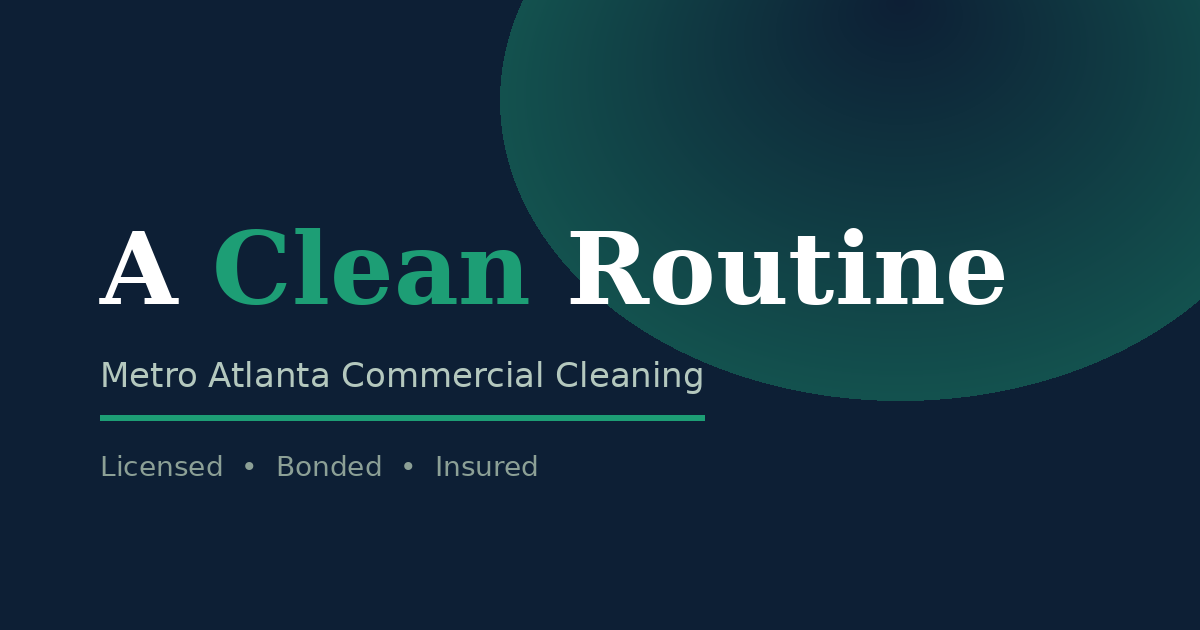
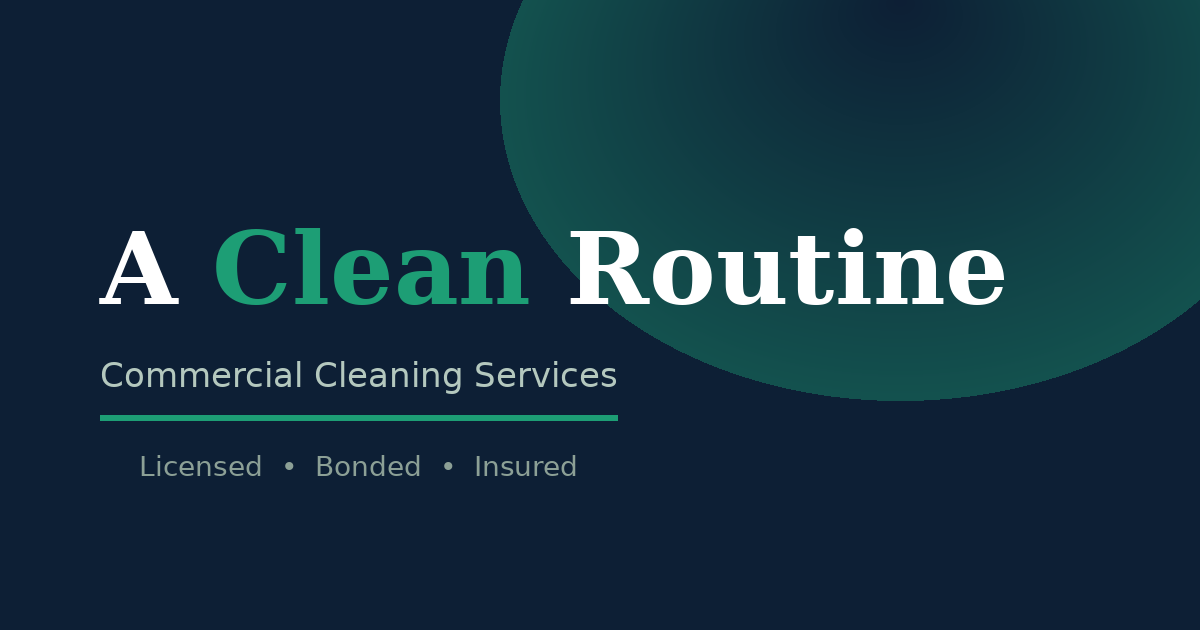
Add files via upload

Changed region(s): [[0.0617, 0.573, 0.5858, 0.6937], [0.0617, 0.7238, 0.4933, 0.754]]

diff --git a/about.html b/about.html
@@ -4,17 +4,17 @@
 <meta charset="UTF-8">
 <meta name="viewport" content="width=device-width, initial-scale=1.0">
 <title>About | A Clean Routine</title>
-<meta name="description" content="A Clean Routine serves Metro Atlanta businesses with accountable, reliable, and professionally documented commercial cleaning.">
+<meta name="description" content="A Clean Routine serves businesses with accountable, reliable, and professionally documented commercial cleaning.">
 <meta property="og:type" content="website">
 <meta property="og:url" content="https://acroutine.com/about.html">
 <meta property="og:title" content="About | A Clean Routine">
-<meta property="og:description" content="A Clean Routine serves Metro Atlanta businesses with accountable, reliable, and professionally documented commercial cleaning.">
+<meta property="og:description" content="A Clean Routine serves businesses with accountable, reliable, and professionally documented commercial cleaning.">
 <meta property="og:image" content="https://acroutine.com/og-image.png">
 <meta property="og:image:width" content="1200">
 <meta property="og:image:height" content="630">
 <meta name="twitter:card" content="summary_large_image">
 <meta name="twitter:title" content="About | A Clean Routine">
-<meta name="twitter:description" content="A Clean Routine serves Metro Atlanta businesses with accountable, reliable, and professionally documented commercial cleaning.">
+<meta name="twitter:description" content="A Clean Routine serves businesses with accountable, reliable, and professionally documented commercial cleaning.">
 <meta name="twitter:image" content="https://acroutine.com/og-image.png">
 <link href="https://fonts.googleapis.com/css2?family=DM+Serif+Display&family=DM+Sans:wght@300;400;500;600&display=swap" rel="stylesheet">
 <style>
@@ -129,8 +129,6 @@ footer{background:var(--navy);padding:48px 2rem 28px}
     <a class="nl active" href="about.html">About</a>
     <a class="nl" href="quote.html">Get a Quote</a>
     <a class="nl" href="contact.html">Contact</a>
-    <div class="nav-divider"></div>
-    <a class="nav-phone" href="tel:6788333847">&#9990; (678) 833-3847</a>
   </div>
   <button class="hamburger" onclick="toggleMenu()" aria-label="Menu">
     <span></span><span></span><span></span>
@@ -143,7 +141,6 @@ footer{background:var(--navy);padding:48px 2rem 28px}
   <a href="about.html">About</a>
   <a href="quote.html">Get a Quote</a>
   <a href="contact.html">Contact</a>
-  <a href="tel:6788333847" style="color:rgba(255,255,255,.8);">&#9990; (678) 833-3847</a>
 </div>
 
 <!-- PAGE HERO -->
@@ -167,11 +164,11 @@ footer{background:var(--navy);padding:48px 2rem 28px}
     </div>
     <div class="story-content">
       <div class="reveal"><div class="section-tag">Who We Are</div></div>
-      <div class="reveal reveal-d1"><h2>A Metro Atlanta Company Built for Metro Atlanta Businesses</h2></div>
+      <div class="reveal reveal-d1"><h2>A Company Built for Consistent Business Cleaning</h2></div>
       <div class="reveal reveal-d2">
-        <p>A Clean Routine is a Metro Atlanta commercial cleaning company built from the ground up with one priority: accountability. In an industry where the most common complaint is inconsistency, we built our entire model around solving that problem.</p>
+        <p>A Clean Routine is a commercial cleaning company built from the ground up with one priority: accountability. In an industry where the most common complaint is inconsistency, we built our entire model around solving that problem.</p>
         <p>Every cleaning professional we deploy is background-checked, insured, and trained to follow a documented cleaning checklist. Every job ends with photo documentation sent directly to you so you always know exactly what was done and when.</p>
-        <p>We serve office buildings, medical facilities, executive suites, retail spaces, auto dealerships, and property management portfolios across Metro Atlanta. Whether you need daily janitorial service or monthly deep cleaning, we build a schedule around your operations, not ours.</p>
+        <p>We serve office buildings, medical facilities, executive suites, retail spaces, auto dealerships, and property management portfolios. Whether you need daily janitorial service or monthly deep cleaning, we build a schedule around your operations, not ours.</p>
       </div>
     </div>
   </div>
@@ -208,7 +205,6 @@ footer{background:var(--navy);padding:48px 2rem 28px}
   <h2>Ready to Work With Us?</h2>
   <p>Get a free custom quote for your facility within 24 hours.</p>
   <a href="quote.html" class="btn-white">Request a Free Quote</a>
-  <a href="tel:6788333847" class="btn-outline-white">&#9990; Call (678) 833-3847</a>
 </div>
 
 <!-- FOOTER -->
@@ -231,6 +227,7 @@ footer{background:var(--navy);padding:48px 2rem 28px}
       <div style="font-size:11px;font-weight:600;color:rgba(255,255,255,.35);text-transform:uppercase;letter-spacing:.12em;margin-bottom:12px;">Contact</div>
       <div style="display:flex;flex-direction:row;flex-wrap:wrap;gap:6px 28px;">
         <a href="tel:6788333847" style="font-size:13px;color:rgba(255,255,255,.55);text-decoration:none;">(678) 833-3847</a>
+        <a href="tel:4633634653" style="font-size:13px;color:rgba(255,255,255,.55);text-decoration:none;">(463) 363-4653</a>
         <span style="font-size:13px;color:rgba(255,255,255,.55);" id="footer-email"></span>
         <span style="font-size:13px;color:rgba(255,255,255,.55);">Available Mon&#8211;Sat</span>
       </div>

diff --git a/index.html b/index.html
@@ -3,17 +3,17 @@
 <head>
 <meta charset="UTF-8">
 <meta name="viewport" content="width=device-width, initial-scale=1.0">
-<title>A Clean Routine | Metro Atlanta Commercial Cleaning</title>
+<title>A Clean Routine | Commercial Cleaning Services</title>
 <meta name="description" content="Licensed, bonded commercial cleaning for Metro Atlanta businesses. Photo documented, background checked, built on accountability.">
 <meta property="og:type" content="website">
 <meta property="og:url" content="https://acroutine.com">
-<meta property="og:title" content="A Clean Routine | Metro Atlanta Commercial Cleaning">
+<meta property="og:title" content="A Clean Routine | Commercial Cleaning Services">
 <meta property="og:description" content="Licensed, bonded commercial cleaning for Metro Atlanta businesses. Photo documented, background checked, built on accountability.">
 <meta property="og:image" content="https://acroutine.com/og-image.png">
 <meta property="og:image:width" content="1200">
 <meta property="og:image:height" content="630">
 <meta name="twitter:card" content="summary_large_image">
-<meta name="twitter:title" content="A Clean Routine | Metro Atlanta Commercial Cleaning">
+<meta name="twitter:title" content="A Clean Routine | Commercial Cleaning Services">
 <meta name="twitter:description" content="Licensed, bonded commercial cleaning for Metro Atlanta businesses. Photo documented, background checked, built on accountability.">
 <meta name="twitter:image" content="https://acroutine.com/og-image.png">
 <link href="https://fonts.googleapis.com/css2?family=DM+Serif+Display&family=DM+Sans:wght@300;400;500;600&display=swap" rel="stylesheet">
@@ -180,8 +180,6 @@ footer{background:var(--navy);padding:48px 2rem 28px}
     <a class="nl" href="about.html">About</a>
     <a class="nl" href="quote.html">Get a Quote</a>
     <a class="nl" href="contact.html">Contact</a>
-    <div class="nav-divider"></div>
-    <a class="nav-phone" href="tel:6788333847">&#9990; (678) 833-3847</a>
   </div>
   <button class="hamburger" onclick="toggleMenu()" aria-label="Menu">
     <span></span><span></span><span></span>
@@ -194,11 +192,9 @@ footer{background:var(--navy);padding:48px 2rem 28px}
   <a href="about.html">About</a>
   <a href="quote.html">Get a Quote</a>
   <a href="contact.html">Contact</a>
-  <a href="tel:6788333847" style="color:rgba(255,255,255,.7);font-size:15px;font-weight:500;">&#9990; (678) 833-3847</a>
 </div>
 
 <div class="hero">
-  <div class="hero-tag">Metro Atlanta Commercial Cleaning</div>
   <h1>Your Facility Deserves <em>Consistent</em> Excellence</h1>
   <p class="hero-outcome">Your clients notice a clean space. Your employees perform better in one. We make sure it stays that way.</p>
   <div class="btn-row">
@@ -321,6 +317,7 @@ footer{background:var(--navy);padding:48px 2rem 28px}
       <div style="font-size:11px;font-weight:600;color:rgba(255,255,255,.35);text-transform:uppercase;letter-spacing:.12em;margin-bottom:12px;">Contact</div>
       <div style="display:flex;flex-direction:row;flex-wrap:wrap;gap:6px 28px;">
         <a href="tel:6788333847" style="font-size:13px;color:rgba(255,255,255,.55);text-decoration:none;">(678) 833-3847</a>
+        <a href="tel:4633634653" style="font-size:13px;color:rgba(255,255,255,.55);text-decoration:none;">(463) 363-4653</a>
         <span style="font-size:13px;color:rgba(255,255,255,.55);">contact&#64;acroutine&#46;com</span>
         <span style="font-size:13px;color:rgba(255,255,255,.55);">Available Mon&#8211;Sat</span>
       </div>
@@ -353,36 +350,5 @@ function animateCounter(el){
 }
 document.querySelectorAll('[data-target]').forEach(el=>animateCounter(el));
 </script>
-        <span style="font-size:13px;color:rgba(255,255,255,.55);">Available Mon&#8211;Sat</span>
-      </div>
-    </div>
-
-  </div>
-  <div class="footer-bottom">
-    <p>&#169; 2026 A Clean Routine LLC. All rights reserved.</p>
-    <p>Reliable. Professional. Detail-Driven.</p>
-  </div>
-</footer>
-<script>
-function toggleMenu(){
-  document.getElementById('mobileMenu').classList.toggle('open');
-}
-function animateCounter(el){
-  const target=parseInt(el.dataset.target);
-  const prefix=el.dataset.prefix||'';
-  const suffix=el.dataset.suffix||'';
-  const duration=1800;
-  const start=performance.now();
-  function update(now){
-    const elapsed=now-start;
-    const progress=Math.min(elapsed/duration,1);
-    const ease=1-Math.pow(1-progress,3);
-    const current=Math.round(ease*target);
-    el.textContent=prefix+current+suffix;
-    if(progress<1)requestAnimationFrame(update);
-  }
-  requestAnimationFrame(update);
-}
-const counterObserver=new IntersectionObserver((entries)=>{
-  entries.forEach(entry=>{
-    if(entry.isIntersecting&&entry
+</body>
+</html>

diff --git a/contact.html b/contact.html
@@ -126,8 +126,6 @@ footer{background:var(--navy);padding:48px 2rem 28px}
     <a class="nl" href="about.html">About</a>
     <a class="nl" href="quote.html">Get a Quote</a>
     <a class="nl active" href="contact.html">Contact</a>
-    <div class="nav-divider"></div>
-    <a class="nav-phone" href="tel:6788333847">&#9990; (678) 833-3847</a>
   </div>
   <button class="hamburger" onclick="toggleMenu()" aria-label="Menu">
     <span></span><span></span><span></span>
@@ -140,7 +138,6 @@ footer{background:var(--navy);padding:48px 2rem 28px}
   <a href="about.html">About</a>
   <a href="quote.html">Get a Quote</a>
   <a href="contact.html">Contact</a>
-  <a href="tel:6788333847" style="color:rgba(255,255,255,.8);">&#9990; (678) 833-3847</a>
 </div>
 
 <!-- PAGE HERO -->
@@ -166,7 +163,8 @@ footer{background:var(--navy);padding:48px 2rem 28px}
           <div class="contact-dot"><svg viewBox="0 0 24 24"><path d="M3 5a2 2 0 012-2h3.28a1 1 0 01.948.684l1.498 4.493a1 1 0 01-.502 1.21l-2.257 1.13a11.042 11.042 0 005.516 5.516l1.13-2.257a1 1 0 011.21-.502l4.493 1.498a1 1 0 01.684.948V19a2 2 0 01-2 2h-1C9.716 21 3 14.284 3 6V5z"/></svg></div>
           <div>
             <div class="contact-item-label">Phone</div>
-            <div class="contact-item-val"><a href="tel:6788333847">(678) 833-3847</a></div>
+            <div class="contact-item-val"><a href="tel:6788333847">(678) 833-3847</a> (Georgia)</div>
+            <div class="contact-item-val" style="margin-top:4px;"><a href="tel:4633634653">(463) 363-4653</a> (Indiana)</div>
             <div class="contact-item-sub">Available Mon&#8211;Sat, 8am&#8211;6pm</div>
           </div>
         </div>
@@ -186,6 +184,8 @@ footer{background:var(--navy);padding:48px 2rem 28px}
             <div class="contact-item-label">Service Area</div>
             <div class="contact-item-val">Metro Atlanta, Georgia</div>
             <div class="contact-item-sub">Including Marietta, Alpharetta, Norcross, Sandy Springs, Buckhead, Midtown, and surrounding areas</div>
+            <div class="contact-item-val" style="margin-top:12px;">Metro Indianapolis, Indiana</div>
+            <div class="contact-item-sub">Including Carmel, Fishers, Noblesville, Greenwood, Avon, and surrounding areas</div>
           </div>
         </div>
 
@@ -277,6 +277,7 @@ footer{background:var(--navy);padding:48px 2rem 28px}
       <div style="font-size:11px;font-weight:600;color:rgba(255,255,255,.35);text-transform:uppercase;letter-spacing:.12em;margin-bottom:12px;">Contact</div>
       <div style="display:flex;flex-direction:row;flex-wrap:wrap;gap:6px 28px;">
         <a href="tel:6788333847" style="font-size:13px;color:rgba(255,255,255,.55);text-decoration:none;">(678) 833-3847</a>
+        <a href="tel:4633634653" style="font-size:13px;color:rgba(255,255,255,.55);text-decoration:none;">(463) 363-4653</a>
         <span style="font-size:13px;color:rgba(255,255,255,.55);" id="footer-email"></span>
         <span style="font-size:13px;color:rgba(255,255,255,.55);">Available Mon&#8211;Sat</span>
       </div>

diff --git a/quote.html b/quote.html
@@ -468,8 +468,6 @@
     <a class="site-nl" href="about.html">About</a>
     <a class="site-nl active" href="quote.html">Get a Quote</a>
     <a class="site-nl" href="contact.html">Contact</a>
-    <div class="site-divider"></div>
-    <a class="site-phone" href="tel:6788333847">&#9990; (678) 833-3847</a>
   </div>
   <button class="hamburger" onclick="document.getElementById('mobileNav').classList.toggle('open')" aria-label="Menu">
     <span></span><span></span><span></span>
@@ -481,7 +479,6 @@
   <a href="about.html">About</a>
   <a href="quote.html">Get a Quote</a>
   <a href="contact.html">Contact</a>
-  <a href="tel:6788333847" style="color:rgba(255,255,255,.7);font-size:15px;font-weight:500;">&#9990; (678) 833-3847</a>
 </div>
 
 
@@ -493,7 +490,6 @@
   <div class="hero-badges">
     <div class="badge"><span class="badge-dot"></span>Fully Insured & Bonded</div>
     <div class="badge"><span class="badge-dot"></span>Response Within 24 Hours</div>
-    <div class="badge"><span class="badge-dot"></span>Metro Atlanta Area</div>
   </div>
 </div>
 
@@ -507,7 +503,7 @@
 
 <!-- FORM -->
 <div style="max-width:760px;margin:0 auto;padding:20px 24px 0;text-align:center;">
-  <p style="font-size:14px;color:#6b6b6b;">Prefer to talk? Call us at <a href="tel:6788333847" style="color:#1d9e75;font-weight:600;text-decoration:none;">(678) 833-3847</a> and we will walk you through the process.</p>
+  <p style="font-size:14px;color:#6b6b6b;">Prefer to talk? Call us at <a href="tel:6788333847" style="color:#1d9e75;font-weight:600;text-decoration:none;">(678) 833-3847</a> for Georgia or <a href="tel:4633634653" style="color:#1d9e75;font-weight:600;text-decoration:none;">(463) 363-4653</a> for Indiana, and we will walk you through the process.</p>
 </div>
 <div class="form-outer" id="formOuter">
 <form id="intakeForm" novalidate>
@@ -1174,5 +1170,16 @@
       <div style="font-size:11px;font-weight:600;color:rgba(255,255,255,.35);text-transform:uppercase;letter-spacing:.12em;margin-bottom:12px;">Contact</div>
       <div style="display:flex;flex-direction:row;flex-wrap:wrap;gap:6px 28px;">
         <a href="tel:6788333847" style="font-size:13px;color:rgba(255,255,255,.55);text-decoration:none;">(678) 833-3847</a>
+        <a href="tel:4633634653" style="font-size:13px;color:rgba(255,255,255,.55);text-decoration:none;">(463) 363-4653</a>
         <span style="font-size:13px;color:rgba(255,255,255,.55);">contact&#64;acroutine&#46;com</span>
-        <span style="font-size:13px;color:rgba(255,255,255,.55);">Av
+        <span style="font-size:13px;color:rgba(255,255,255,.55);">Available Mon&#8211;Sat</span>
+      </div>
+    </div>
+  </div>
+  <div class="footer-bottom">
+    <p>&#169; 2026 A Clean Routine LLC. All rights reserved.</p>
+    <p>Reliable. Professional. Detail-Driven.</p>
+  </div>
+</footer>
+</body>
+</html>

diff --git a/services.html b/services.html
@@ -172,8 +172,6 @@ footer{background:var(--navy);padding:48px 2rem 28px}
     <a class="nl" href="about.html">About</a>
     <a class="nl" href="quote.html">Get a Quote</a>
     <a class="nl" href="contact.html">Contact</a>
-    <div class="nav-divider"></div>
-    <a class="nav-phone" href="tel:6788333847">&#9990; (678) 833-3847</a>
   </div>
   <button class="hamburger" onclick="toggleMenu()" aria-label="Menu">
     <span></span><span></span><span></span>
@@ -186,7 +184,6 @@ footer{background:var(--navy);padding:48px 2rem 28px}
   <a href="about.html">About</a>
   <a href="quote.html">Get a Quote</a>
   <a href="contact.html">Contact</a>
-  <a href="tel:6788333847" style="color:rgba(255,255,255,.8);">&#9990; (678) 833-3847</a>
 </div>
 
 <!-- PAGE HERO -->
@@ -382,6 +379,7 @@ footer{background:var(--navy);padding:48px 2rem 28px}
       <div style="font-size:11px;font-weight:600;color:rgba(255,255,255,.35);text-transform:uppercase;letter-spacing:.12em;margin-bottom:12px;">Contact</div>
       <div style="display:flex;flex-direction:row;flex-wrap:wrap;gap:6px 28px;">
         <a href="tel:6788333847" style="font-size:13px;color:rgba(255,255,255,.55);text-decoration:none;">(678) 833-3847</a>
+        <a href="tel:4633634653" style="font-size:13px;color:rgba(255,255,255,.55);text-decoration:none;">(463) 363-4653</a>
         <span style="font-size:13px;color:rgba(255,255,255,.55);" id="footer-email"></span>
         <span style="font-size:13px;color:rgba(255,255,255,.55);">Available Mon&#8211;Sat</span>
       </div>
